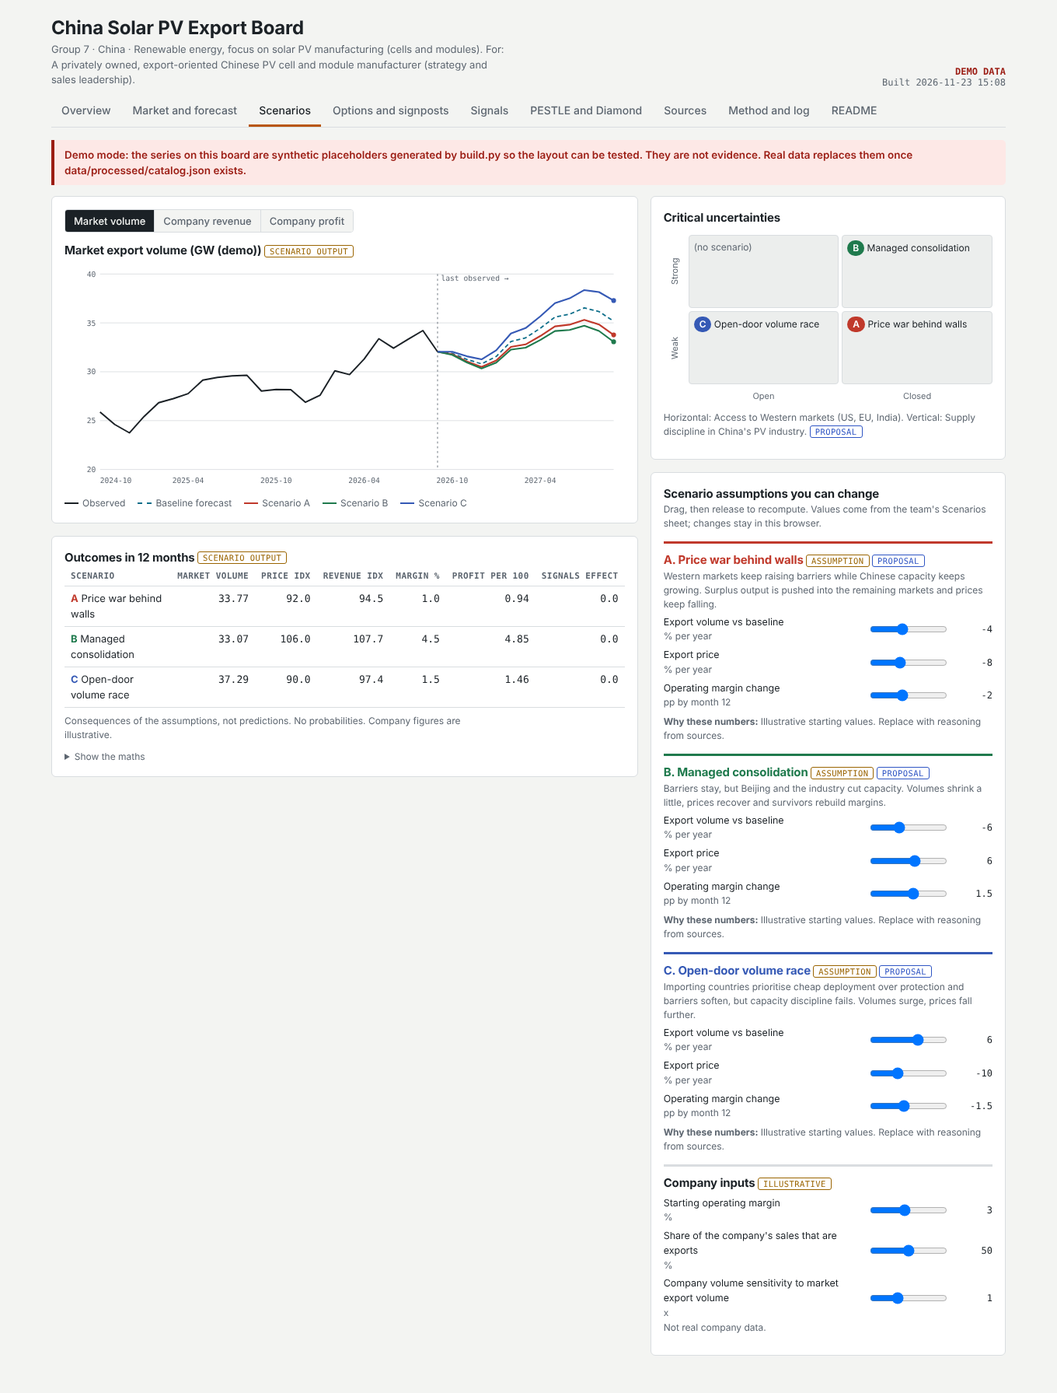
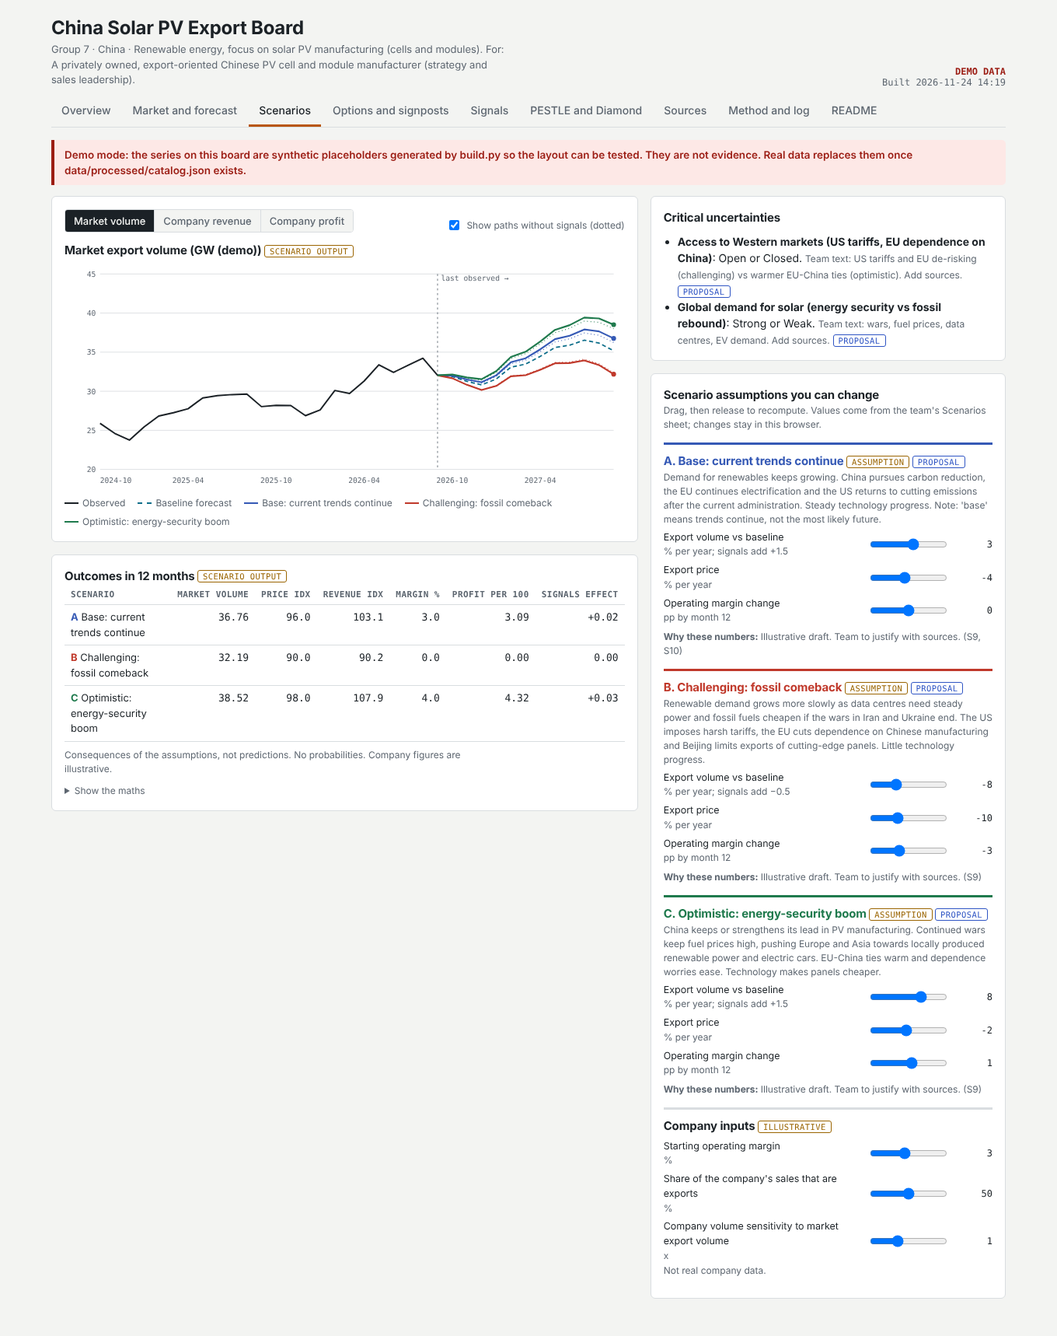
Team scenarios (base/challenging/optimistic), starter signals and sources

diff --git a/site/index.html b/site/index.html
@@ -9,14 +9,14 @@
 :root{
   --bg:#f3f4f2;--panel:#fff;--ink:#1b2126;--muted:#5d6670;--line:#d9dde0;--soft:#eceeed;
   --accent:#b8560b;--accent-ink:#fff;--obs:#1b2126;--base:#0d6e8a;
-  --sA:#c0392b;--sB:#1f7a4d;--sC:#3559b5;
+  --sA:#3559b5;--sB:#c0392b;--sC:#1f7a4d;
   --good:#1f7a4d;--warn:#9a6400;--bad:#b3261e;--prop:#2f55c4;--demo-bg:#fde8e6;--demo:#9b1c13;
   --f:'Segoe UI',system-ui,-apple-system,Roboto,Arial,sans-serif;--mono:ui-monospace,Consolas,Menlo,monospace;
 }
 @media (prefers-color-scheme:dark){:root{
   --bg:#111518;--panel:#1a2025;--ink:#e6eaed;--muted:#9aa5ae;--line:#2d363d;--soft:#222a30;
   --accent:#f0913f;--accent-ink:#1a1006;--obs:#e6eaed;--base:#4fb6d6;
-  --sA:#ff8a7a;--sB:#5fd39a;--sC:#8fa9ff;--good:#5fd39a;--warn:#f0c060;--bad:#ff8a80;--prop:#8fa9ff;--demo-bg:#3b1512;--demo:#ffb4ab;color-scheme:dark}}
+  --sA:#8fa9ff;--sB:#ff8a7a;--sC:#5fd39a;--good:#5fd39a;--warn:#f0c060;--bad:#ff8a80;--prop:#8fa9ff;--demo-bg:#3b1512;--demo:#ffb4ab;color-scheme:dark}}
 *{box-sizing:border-box}
 body{margin:0;background:var(--bg);color:var(--ink);font:14px/1.5 var(--f)}
 .wrap{max-width:1260px;margin:0 auto;padding:0 16px 48px}
@@ -121,7 +121,7 @@ const esc=s=>String(s??'').replace(/[&<>"']/g,c=>({'&':'&amp;','<':'&lt;','>':'&
 const f1=x=>x==null||isNaN(x)?'–':(Math.round(x*10)/10).toFixed(1);
 const f2=x=>x==null||isNaN(x)?'–':x.toFixed(2);
 const fv=(x,u)=>x==null?'–':(Math.abs(x)<1?x.toFixed(3):Math.abs(x)<100?x.toFixed(2):x.toFixed(1));
-const sgn=x=>x==null||isNaN(x)?'–':(x>0?'+':x<0?'−':'')+Math.abs(x).toFixed(1);
+const sgn=(x,d=1)=>x==null||isNaN(x)?'–':(x>0?'+':x<0?'−':'')+Math.abs(x).toFixed(d);
 const H = (B.meta && B.meta.horizon) || 12;
 const empty=(t)=>`<div class="empty">${t}</div>`;
 const statusChip=st=>!st?'':/proposal/i.test(st)?'<span class="chip prop">proposal</span>':/verified|used/i.test(st)?'<span class="chip ok">'+esc(st)+'</span>':/draft/i.test(st)?'<span class="chip ass">draft</span>':'<span class="chip">'+esc(st)+'</span>';
@@ -221,7 +221,7 @@ function renderScenarios(){if(!SCEN.length){$('t-scenarios').innerHTML=empty('No
   else lines.push({pts:[[shown-1,start],[shown+H-1,start]],css:'--muted',dash:'2 3',w:1});
   SCEN.forEach(sc=>{const css=SCSS[sc.id]||'--muted';
     if(S.showBase&&(C.signals||[]).length)lines.push({pts:[[shown-1,start]].concat(runScen(sc.id,false).map((o,i)=>[shown+i,val(o)])),css,dash:'1 4',w:1.4});
-    lines.push({pts:[[shown-1,start]].concat(runScen(sc.id).map((o,i)=>[shown+i,val(o)])),css,w:2.4,name:'Scenario '+sc.id,end:true})});
+    lines.push({pts:[[shown-1,start]].concat(runScen(sc.id).map((o,i)=>[shown+i,val(o)])),css,w:2.4,name:sc.name,end:true})});
   const unit={vol:`Market export volume (${s.unit})`,rev:"Company revenue index (today = 100)",ebit:"Operating profit per 100 of today's revenue"}[S.metric];
   const rows=SCEN.map(sc=>{const o=runScen(sc.id)[H-1],o0=runScen(sc.id,false)[H-1];return {sc,o,o0}});
   const pos={};SCEN.forEach(sc=>{const k=(sc.u1||'?')+'|'+(sc.u2||'?');(pos[k]=pos[k]||[]).push(sc)});
@@ -237,14 +237,14 @@ function renderScenarios(){if(!SCEN.length){$('t-scenarios').innerHTML=empty('No
    <div class="panel"><div class="ctl" style="justify-content:space-between"><div class="seg" role="group" aria-label="Measure">${[['vol','Market volume'],['rev','Company revenue'],['ebit','Company profit']].map(([k,l])=>`<button data-metric="${k}" aria-pressed="${S.metric===k}">${l}</button>`).join('')}</div>
      ${(C.signals||[]).length?`<label style="flex-direction:row;align-items:center;gap:6px"><input type="checkbox" id="c-base" ${S.showBase?'checked':''}> Show paths without signals (dotted)</label>`:''}</div>
     <h3 style="margin-bottom:6px">${esc(unit)} <span class="chip ass">scenario output</span></h3><div id="chart-s"></div>
-    <div class="legend">${S.metric==='vol'?'<span><i style="border-color:var(--obs)"></i>Observed</span><span><i style="border-color:var(--base);border-top-style:dashed"></i>Baseline forecast</span>':''}${SCEN.map(sc=>`<span><i style="border-color:var(${SCSS[sc.id]})"></i>Scenario ${esc(sc.id)}</span>`).join('')}</div></div>
+    <div class="legend">${S.metric==='vol'?'<span><i style="border-color:var(--obs)"></i>Observed</span><span><i style="border-color:var(--base);border-top-style:dashed"></i>Baseline forecast</span>':''}${SCEN.map(sc=>`<span><i style="border-color:var(${SCSS[sc.id]})"></i>${esc(sc.name)}</span>`).join('')}</div></div>
    <div class="panel"><h3>Outcomes in ${H} months <span class="chip ass">scenario output</span></h3>
-    ${tableHTML([{h:'Scenario',f:r=>`<b style="color:var(${SCSS[r.sc.id]})">${esc(r.sc.id)}</b> ${esc(r.sc.name)}`},{h:'Market volume',n:1,f:r=>fv(r.o.V)},{h:'Price idx',n:1,f:r=>f1(r.o.P)},{h:'Revenue idx',n:1,f:r=>f1(r.o.R)},{h:'Margin %',n:1,f:r=>f1(r.o.mg)},{h:'Profit per 100',n:1,f:r=>f2(r.o.E)},{h:'Signals effect',n:1,f:r=>sgn(r.o.E-r.o0.E)}],rows)}
+    ${tableHTML([{h:'Scenario',f:r=>`<b style="color:var(${SCSS[r.sc.id]})">${esc(r.sc.id)}</b> ${esc(r.sc.name)}`},{h:'Market volume',n:1,f:r=>fv(r.o.V)},{h:'Price idx',n:1,f:r=>f1(r.o.P)},{h:'Revenue idx',n:1,f:r=>f1(r.o.R)},{h:'Margin %',n:1,f:r=>f1(r.o.mg)},{h:'Profit per 100',n:1,f:r=>f2(r.o.E)},{h:'Signals effect',n:1,f:r=>sgn(r.o.E-r.o0.E,2)}],rows)}
     <p class="small" style="margin-top:8px">Consequences of the assumptions, not predictions. No probabilities. Company figures are illustrative.</p>
     <details><summary class="small" style="cursor:pointer">Show the maths</summary><p class="small" style="margin-top:6px">Market volume = baseline × (1 + volume assumption × t/12). Company export volume index = 100 × (market volume ÷ volume today)^sensitivity. Price index = 100 × (1 + price assumption × t/12). Revenue index = export share × volume index × price index ÷ 100 + (1 − export share) × price index. Margin = starting margin + margin change × t/12. Profit per 100 of today's revenue = revenue index × margin ÷ 100.</p></details></div></div>
    <div class="grid"><div class="panel"><h3>Critical uncertainties</h3>
-    <div class="matrix" style="margin-top:10px"><div class="ax v">${esc(g1)}</div>${cell(e1,g1)}${cell(e2,g1)}<div class="ax v">${esc(g2)}</div>${cell(e1,g2)}${cell(e2,g2)}<div></div><div class="ax">${esc(e1)}</div><div class="ax">${esc(e2)}</div></div>
-    <p class="small" style="margin-top:6px">Horizontal: ${esc(u1['Uncertainty']||'U1')}. Vertical: ${esc(u2['Uncertainty']||'U2')}. ${statusChip(u1.Status)}</p></div>
+    ${SCEN.every(x=>!x.u1&&!x.u2)?`<ul style="margin:8px 0 0;padding-left:18px">${U.map(u=>`<li><b>${esc(u['Uncertainty'])}</b>: ${esc(u['One end'])} or ${esc(u['Other end'])}. <span class="small">${esc(u['Why it is uncertain (evidence)']||'')}</span> ${statusChip(u.Status)}</li>`).join('')}</ul>`:`<div class="matrix" style="margin-top:10px"><div class="ax v">${esc(g1)}</div>${cell(e1,g1)}${cell(e2,g1)}<div class="ax v">${esc(g2)}</div>${cell(e1,g2)}${cell(e2,g2)}<div></div><div class="ax">${esc(e1)}</div><div class="ax">${esc(e2)}</div></div>
+    <p class="small" style="margin-top:6px">Horizontal: ${esc(u1['Uncertainty']||'U1')}. Vertical: ${esc(u2['Uncertainty']||'U2')}. ${statusChip(u1.Status)}</p>`}</div>
     <div class="panel"><h3>Scenario assumptions you can change</h3><p class="small">Drag, then release to recompute. Values come from the team's Scenarios sheet; changes stay in this browser.</p>${sliders}
      <div class="sc" style="border-color:var(--line)"><h3>Company inputs <span class="chip ass">illustrative</span></h3>${cs('m0',ci.m0)}${cs('share',ci.share)}${cs('beta',ci.beta)}<p class="small">Not real company data.</p></div></div></div></div>`;
   chart($('chart-s'),{x,lines,split:shown-1,aria:unit+' by scenario'});
@@ -273,7 +273,7 @@ function renderSignals(){const G=C.signals||[];
   const imp=G.map(g=>({g,c:SCEN.map(sc=>S.sigOn[g.id]?runScen(sc.id)[H-1].E-runScen(sc.id,true,g.id)[H-1].E:null)}));
   $('t-signals').innerHTML=`<div class="main grid"><div class="grid" style="min-width:0"><div><h2>Signals feed</h2><p class="small" style="margin-top:4px">News from pages the team read. Each item keeps the stated fact apart from our judgement, which is turned into numbers that shift the scenario assumptions.</p></div>
    ${cards||empty('No signals yet. Member B adds news items in the Signals sheet; each appears here as a card that can be switched on and off.')}</div>
-   <div class="panel"><h3>Impact of each signal</h3>${tableHTML([{h:'Signal',f:r=>esc(r.g.title.slice(0,60))},...SCEN.map((sc,i)=>({h:'Profit · '+sc.id,n:1,f:r=>r.c[i]==null?'off':sgn(r.c[i]*1)}))],imp,{empty:'Appears when signals exist.'})}
+   <div class="panel"><h3>Impact of each signal</h3>${tableHTML([{h:'Signal',f:r=>esc(r.g.title.slice(0,60))},...SCEN.map((sc,i)=>({h:'Profit · '+sc.id,n:1,f:r=>r.c[i]==null?'off':sgn(r.c[i],2)}))],imp,{empty:'Appears when signals exist.'})}
    <p class="small" style="margin-top:6px">Change in month-${H} operating profit per 100 of today's revenue when the signal is on, others unchanged.</p></div></div>`;
   document.querySelectorAll('[data-on]').forEach(e=>e.onchange=()=>{S.sigOn[e.dataset.on]=e.checked;commit()})}
 

diff --git a/site/data.js b/site/data.js
@@ -1,6 +1,6 @@
 window.BOARD = {
  "meta": {
-  "built": "2026-11-23 15:08",
+  "built": "2026-11-24 14:19",
   "demo": true,
   "snapshot": null,
   "horizon": 12
@@ -205,6 +205,40 @@ window.BOARD = {
     "Used for": "Why this context matters",
     "Status": "Candidate - not verified",
     "Checked by": null
+   },
+   {
+    "ID": "S9",
+    "Name (exact table or article title)": "Global Energy Review 2026: Global trends; Technology: Solar PV and wind",
+    "Provider / publisher": "IEA",
+    "Dataset code / table": null,
+    "URL (table-level link)": "https://www.iea.org/reports/global-energy-review-2026/global-trends",
+    "Variables and filters": "Data centre electricity demand, solar PV additions, China additions",
+    "Unit": "%, GW, TWh",
+    "Frequency": "Annual",
+    "Coverage (from-to)": "2025",
+    "Access date": "2026-11-24",
+    "Missing values and flags": null,
+    "Transformations applied": "None",
+    "Used for": "Signals G1, G2",
+    "Status": "Verified",
+    "Checked by": "Claude"
+   },
+   {
+    "ID": "S10",
+    "Name (exact table or article title)": "China's 15th Five-Year Plan article (gov.cn, 13 Mar 2026)",
+    "Provider / publisher": "State Council of the PRC",
+    "Dataset code / table": null,
+    "URL (table-level link)": "https://english.www.gov.cn/news/202603/13/content_WS69b36980c6d00ca5f9a09d8a.html",
+    "Variables and filters": "Plan period, low-carbon transformation, carbon reduction as macroeconomic target (work report)",
+    "Unit": null,
+    "Frequency": "One-off",
+    "Coverage (from-to)": "2026-2030",
+    "Access date": "2026-11-24",
+    "Missing values and flags": "No numeric targets in the article",
+    "Transformations applied": "None",
+    "Used for": "Signal G3, Brief",
+    "Status": "Verified",
+    "Checked by": "Claude"
    }
   ],
   "checks": [],
@@ -413,19 +447,19 @@ window.BOARD = {
   "uncertainties": [
    {
     "ID": "U1",
-    "Uncertainty": "Access to Western markets (US, EU, India)",
+    "Uncertainty": "Access to Western markets (US tariffs, EU dependence on China)",
     "One end": "Open",
     "Other end": "Closed",
-    "Why it is uncertain (evidence)": null,
+    "Why it is uncertain (evidence)": "Team text: US tariffs and EU de-risking (challenging) vs warmer EU-China ties (optimistic). Add sources.",
     "Source IDs": null,
     "Status": "Proposal"
    },
    {
     "ID": "U2",
-    "Uncertainty": "Supply discipline in China's PV industry",
+    "Uncertainty": "Global demand for solar (energy security vs fossil rebound)",
     "One end": "Strong",
     "Other end": "Weak",
-    "Why it is uncertain (evidence)": null,
+    "Why it is uncertain (evidence)": "Team text: wars, fuel prices, data centres, EV demand. Add sources.",
     "Source IDs": null,
     "Status": "Proposal"
    }
@@ -433,41 +467,41 @@ window.BOARD = {
   "scenarios": [
    {
     "id": "A",
-    "name": "Price war behind walls",
-    "story": "Western markets keep raising barriers while Chinese capacity keeps growing. Surplus output is pushed into the remaining markets and prices keep falling.",
-    "u1": "Closed",
-    "u2": "Weak",
-    "d": -4.0,
-    "p": -8.0,
-    "m": -2.0,
-    "why": "Illustrative starting values. Replace with reasoning from sources.",
-    "src": "",
+    "name": "Base: current trends continue",
+    "story": "Demand for renewables keeps growing. China pursues carbon reduction, the EU continues electrification and the US returns to cutting emissions after the current administration. Steady technology progress. Note: 'base' means trends continue, not the most likely future.",
+    "u1": null,
+    "u2": null,
+    "d": 3.0,
+    "p": -4.0,
+    "m": 0.0,
+    "why": "Illustrative draft. Team to justify with sources.",
+    "src": "S9, S10",
     "status": "Proposal"
    },
    {
     "id": "B",
-    "name": "Managed consolidation",
-    "story": "Barriers stay, but Beijing and the industry cut capacity. Volumes shrink a little, prices recover and survivors rebuild margins.",
-    "u1": "Closed",
-    "u2": "Strong",
-    "d": -6.0,
-    "p": 6.0,
-    "m": 1.5,
-    "why": "Illustrative starting values. Replace with reasoning from sources.",
-    "src": "",
+    "name": "Challenging: fossil comeback",
+    "story": "Renewable demand grows more slowly as data centres need steady power and fossil fuels cheapen if the wars in Iran and Ukraine end. The US imposes harsh tariffs, the EU cuts dependence on Chinese manufacturing and Beijing limits exports of cutting-edge panels. Little technology progress.",
+    "u1": null,
+    "u2": null,
+    "d": -8.0,
+    "p": -10.0,
+    "m": -3.0,
+    "why": "Illustrative draft. Team to justify with sources.",
+    "src": "S9",
     "status": "Proposal"
    },
    {
     "id": "C",
-    "name": "Open-door volume race",
-    "story": "Importing countries prioritise cheap deployment over protection and barriers soften, but capacity discipline fails. Volumes surge, prices fall further.",
-    "u1": "Open",
-    "u2": "Weak",
-    "d": 6.0,
-    "p": -10.0,
-    "m": -1.5,
-    "why": "Illustrative starting values. Replace with reasoning from sources.",
-    "src": "",
+    "name": "Optimistic: energy-security boom",
+    "story": "China keeps or strengthens its lead in PV manufacturing. Continued wars keep fuel prices high, pushing Europe and Asia towards locally produced renewable power and electric cars. EU-China ties warm and dependence worries ease. Technology makes panels cheaper.",
+    "u1": null,
+    "u2": null,
+    "d": 8.0,
+    "p": -2.0,
+    "m": 1.0,
+    "why": "Illustrative draft. Team to justify with sources.",
+    "src": "S9",
     "status": "Proposal"
    }
   ],
@@ -500,7 +534,98 @@ window.BOARD = {
     "status": "Proposal"
    }
   },
-  "signals": [],
+  "signals": [
+   {
+    "id": "N1",
+    "title": "Data centre electricity demand rose 17% in 2025",
+    "publisher": "IEA",
+    "date": "2026",
+    "url": "https://www.iea.org/reports/global-energy-review-2026/global-trends",
+    "pestle": "Technological",
+    "kind": "Reported news",
+    "fact": "Electricity demand from data centres rose 17% in 2025 and made up around half of US electricity demand growth.",
+    "note": "Steady-power demand favours fossil and grid capacity over solar in the challenging future; small effect elsewhere.",
+    "read": "Read",
+    "eff": {
+     "A": {
+      "d": 0.0,
+      "p": 0.0,
+      "m": 0.0
+     },
+     "B": {
+      "d": -1.0,
+      "p": 0.0,
+      "m": 0.0
+     },
+     "C": {
+      "d": 0.0,
+      "p": 0.0,
+      "m": 0.0
+     }
+    },
+    "status": "Proposal"
+   },
+   {
+    "id": "N2",
+    "title": "Solar PV additions passed 600 GW in 2025; China added nearly 500 GW of renewables",
+    "publisher": "IEA",
+    "date": "2026",
+    "url": "https://www.iea.org/reports/global-energy-review-2026/technology-solar-pv-and-wind",
+    "pestle": "Economic",
+    "kind": "Reported news",
+    "fact": "Solar PV capacity additions rose about 12% in 2025, passing 600 GW; China added nearly 500 GW of renewable capacity, over 60% of global growth.",
+    "note": "Demand momentum is real, supporting volume in base and optimistic futures.",
+    "read": "Read",
+    "eff": {
+     "A": {
+      "d": 1.0,
+      "p": 0.0,
+      "m": 0.0
+     },
+     "B": {
+      "d": 0.0,
+      "p": 0.0,
+      "m": 0.0
+     },
+     "C": {
+      "d": 1.0,
+      "p": 0.0,
+      "m": 0.0
+     }
+    },
+    "status": "Proposal"
+   },
+   {
+    "id": "N3",
+    "title": "China makes carbon reduction a macroeconomic target",
+    "publisher": "gov.cn",
+    "date": "2026-03-13",
+    "url": "https://english.www.gov.cn/news/202603/13/content_WS69b36980c6d00ca5f9a09d8a.html",
+    "pestle": "Political",
+    "kind": "Reported news",
+    "fact": "The government work report made carbon reduction a macroeconomic target; the 15th Five-Year Plan (2026-2030) pledges low-carbon transformation.",
+    "note": "Supports domestic demand for the manufacturer in every future.",
+    "read": "Read",
+    "eff": {
+     "A": {
+      "d": 0.5,
+      "p": 0.0,
+      "m": 0.0
+     },
+     "B": {
+      "d": 0.5,
+      "p": 0.0,
+      "m": 0.0
+     },
+     "C": {
+      "d": 0.5,
+      "p": 0.0,
+      "m": 0.0
+     }
+    },
+    "status": "Proposal"
+   }
+  ],
   "signposts": [
    {
     "ID": "G1",

diff --git a/scripts/make_template.py b/scripts/make_template.py
@@ -245,6 +245,8 @@ table("Sources", "Sources (dataset level)",
        ("prop", ["S6", "Monthly electricity data", "Ember", "", "https://ember-energy.org/data/ (add dataset link)", "China, solar generation", "TWh", "Monthly", "", None, "", "", "Demand cross-check", "Candidate - not verified", ""]),
        ("prop", ["S7", "World Development Indicators", "World Bank", "WDI (pick indicators)", "https://databank.worldbank.org/source/world-development-indicators", "China: GDP, electricity, exports", "various", "Annual", "", None, "", "", "PESTLE context", "Candidate - not verified", ""]),
        ("prop", ["S8", "Solar PV Global Supply Chains (special report)", "IEA", "", "(add link)", "China's share of each supply-chain stage", "%", "One-off", "", None, "", "", "Why this context matters", "Candidate - not verified", ""]),
+       ("prop", ["S9", "Global Energy Review 2026: Global trends; Technology: Solar PV and wind", "IEA", "", "https://www.iea.org/reports/global-energy-review-2026/global-trends", "Data centre electricity demand, solar PV additions, China additions", "%, GW, TWh", "Annual", "2025", "2026-11-24", "", "None", "Signals G1, G2", "Verified", "Claude"]),
+       ("prop", ["S10", "China's 15th Five-Year Plan article (gov.cn, 13 Mar 2026)", "State Council of the PRC", "", "https://english.www.gov.cn/news/202603/13/content_WS69b36980c6d00ca5f9a09d8a.html", "Plan period, low-carbon transformation, carbon reduction as macroeconomic target (work report)", "", "One-off", "2026-2030", "2026-11-24", "No numeric targets in the article", "None", "Signal G3, Brief", "Verified", "Claude"]),
        ], n=40, owner="Member A")
 
 # ---------------- Data checks ----------------
@@ -418,8 +420,8 @@ table("Uncertainties", "Critical uncertainties (scenario axes)",
       "Two uncertainties that matter most to the user and are genuinely unknown. Each scenario on the next sheet sits at one end of each axis. Back each axis with evidence.",
       [dict(h="ID", w=6), dict(h="Uncertainty", w=34), dict(h="One end", w=24), dict(h="Other end", w=24),
        dict(h="Why it is uncertain (evidence)", w=50), dict(h="Source IDs", w=12), dict(h="Status", w=11, list="Status")],
-      [("prop", ["U1", "Access to Western markets (US, EU, India)", "Open", "Closed", "", "", "Proposal"]),
-       ("prop", ["U2", "Supply discipline in China's PV industry", "Strong", "Weak", "", "", "Proposal"])],
+      [("prop", ["U1", "Access to Western markets (US tariffs, EU dependence on China)", "Open", "Closed", "Team text: US tariffs and EU de-risking (challenging) vs warmer EU-China ties (optimistic). Add sources.", "", "Proposal"]),
+       ("prop", ["U2", "Global demand for solar (energy security vs fossil rebound)", "Strong", "Weak", "Team text: wars, fuel prices, data centres, EV demand. Add sources.", "", "Proposal"])],
       n=4, owner="Member C")
 
 # ---------------- Scenarios ----------------
@@ -430,9 +432,9 @@ table("Scenarios", "Scenarios and slider defaults",
        dict(h="Export volume vs baseline (% per yr)", w=14, fmt="0.0"), dict(h="Export price (% per yr)", w=12, fmt="0.0"),
        dict(h="Margin change (pp)", w=11, fmt="0.0"),
        dict(h="Reasoning and evidence for the numbers", w=48), dict(h="Source IDs", w=11), dict(h="Status", w=11, list="Status")],
-      [("prop", ["A", "Price war behind walls", "Western markets keep raising barriers while Chinese capacity keeps growing. Surplus output is pushed into the remaining markets and prices keep falling.", "Closed", "Weak", -4, -8, -2.0, "Illustrative starting values. Replace with reasoning from sources.", "", "Proposal"]),
-       ("prop", ["B", "Managed consolidation", "Barriers stay, but Beijing and the industry cut capacity. Volumes shrink a little, prices recover and survivors rebuild margins.", "Closed", "Strong", -6, 6, 1.5, "Illustrative starting values. Replace with reasoning from sources.", "", "Proposal"]),
-       ("prop", ["C", "Open-door volume race", "Importing countries prioritise cheap deployment over protection and barriers soften, but capacity discipline fails. Volumes surge, prices fall further.", "Open", "Weak", 6, -10, -1.5, "Illustrative starting values. Replace with reasoning from sources.", "", "Proposal"]),
+      [("prop", ["A", "Base: current trends continue", "Demand for renewables keeps growing. China pursues carbon reduction, the EU continues electrification and the US returns to cutting emissions after the current administration. Steady technology progress. Note: 'base' means trends continue, not the most likely future.", None, None, 3, -4, 0, "Illustrative draft. Team to justify with sources.", "S9, S10", "Proposal"]),
+       ("prop", ["B", "Challenging: fossil comeback", "Renewable demand grows more slowly as data centres need steady power and fossil fuels cheapen if the wars in Iran and Ukraine end. The US imposes harsh tariffs, the EU cuts dependence on Chinese manufacturing and Beijing limits exports of cutting-edge panels. Little technology progress.", None, None, -8, -10, -3, "Illustrative draft. Team to justify with sources.", "S9", "Proposal"]),
+       ("prop", ["C", "Optimistic: energy-security boom", "China keeps or strengthens its lead in PV manufacturing. Continued wars keep fuel prices high, pushing Europe and Asia towards locally produced renewable power and electric cars. EU-China ties warm and dependence worries ease. Technology makes panels cheaper.", None, None, 8, -2, 1, "Illustrative draft. Team to justify with sources.", "S9", "Proposal"]),
        ], n=5, owner="Member C")
 
 # ---------------- Company inputs ----------------
@@ -457,7 +459,10 @@ table("Signals", "Signals (news that changes an assumption)",
        dict(h="Read status", w=14, list="ReadStatus"), dict(h="Owner", w=10), dict(h="Status", w=11, list="Status")],
       [("ex", ["EX-1", "[Exact headline]", "[Publisher]", "2026-11-20", "https://...", "Legal", "Reported news",
                "[Measure, rate and start date as the article states them]", "[Why this moves volume, price or margin in each scenario]",
-               -1, 0, 0, -0.5, 0, 0, 0, 0, 0, "Read", "Member B", "Draft"])],
+               -1, 0, 0, -0.5, 0, 0, 0, 0, 0, "Read", "Member B", "Draft"]),
+       ("prop", ["N1", "Data centre electricity demand rose 17% in 2025", "IEA", "2026", "https://www.iea.org/reports/global-energy-review-2026/global-trends", "Technological", "Reported news", "Electricity demand from data centres rose 17% in 2025 and made up around half of US electricity demand growth.", "Steady-power demand favours fossil and grid capacity over solar in the challenging future; small effect elsewhere.", 0, 0, 0, -1, 0, 0, 0, 0, 0, "Read", "Member B", "Proposal"]),
+       ("prop", ["N2", "Solar PV additions passed 600 GW in 2025; China added nearly 500 GW of renewables", "IEA", "2026", "https://www.iea.org/reports/global-energy-review-2026/technology-solar-pv-and-wind", "Economic", "Reported news", "Solar PV capacity additions rose about 12% in 2025, passing 600 GW; China added nearly 500 GW of renewable capacity, over 60% of global growth.", "Demand momentum is real, supporting volume in base and optimistic futures.", 1, 0, 0, 0, 0, 0, 1, 0, 0, "Read", "Member B", "Proposal"]),
+       ("prop", ["N3", "China makes carbon reduction a macroeconomic target", "gov.cn", "2026-03-13", "https://english.www.gov.cn/news/202603/13/content_WS69b36980c6d00ca5f9a09d8a.html", "Political", "Reported news", "The government work report made carbon reduction a macroeconomic target; the 15th Five-Year Plan (2026-2030) pledges low-carbon transformation.", "Supports domestic demand for the manufacturer in every future.", 0.5, 0, 0, 0.5, 0, 0, 0.5, 0, 0, "Read", "Member B", "Proposal"])],
       n=30, owner="Member B")
 
 # ---------------- Signposts ----------------
